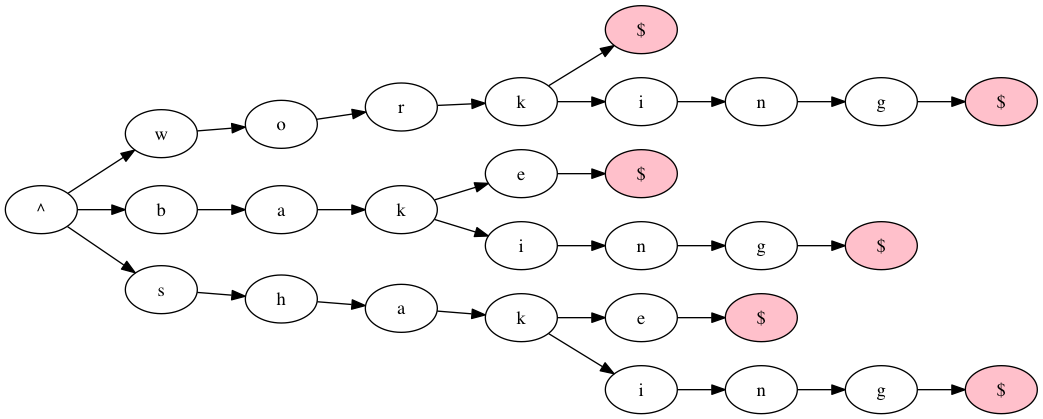
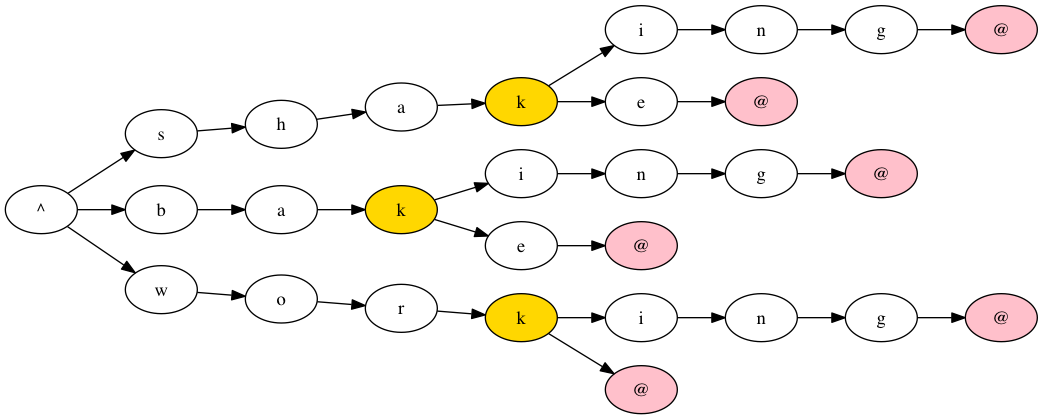
Separate graph and trie building, highlight split points in graphs

diff --git a/trie.py b/trie.py
@@ -8,24 +8,17 @@ class Node:
         self.descendants = {}  #Dictionary of descendants
         self.split_point = False
 
-    def __insert__(self, string, graph, terminal, last_key = str(), prev_branches = list()):
-        letter = string[0]
-        """-------------------- GRAPH BUILDING --------------------"""
-        """If not first letter or start symbol"""
-        if (last_key != ''):
-            """Add node, colour code s for emphasis"""
-            if (letter == terminal):
-                graph.add_node(last_key + letter, label = letter, style = 'filled', fillcolor = 'pink')
-            else:
-                graph.add_node(last_key + letter, label = letter)
-            """Add edge"""
-            graph.add_edge(last_key, last_key + letter)
-            last_key = last_key + letter
-        else:
-            """Add first node"""
-            graph.add_node(letter, label = letter)
-            last_key = letter
+    def __repr__(self):
+        """Outputs the branching factor and the dictionary of descendants
+        iteratively"""
+        string = str(self.branching_factor)
+        if (self.split_point):
+            string += "-SPLIT"
+        string += " " + str(self.descendants)
+        return string
 
+    def __insert__(self, string, prev_branches = list()):
+        letter = string[0]
         """-------------------- TRIE BUILDING --------------------"""
         """If the first letter isn't already an immediate descendant of the node
         then create a new node for that letter"""
@@ -41,7 +34,7 @@ class Node:
         """If there are remaining characters in the string"""
         if len(string[1:]) > 0:
             """Insert the remaining chunk of string below"""
-            self.descendants[letter].__insert__(string[1:], graph, terminal, last_key, [self.branching_factor] + prev_branches)
+            self.descendants[letter].__insert__(string[1:], [self.branching_factor] + prev_branches)
 
     def is_split_point(self, prev_branches):
         """Check to the left using list of previous preceeding factors"""
@@ -78,27 +71,41 @@ class Node:
         else:
             return False
 
-    def __repr__(self):
-        """Outputs the branching factor and the dictionary of descendants
-        iteratively"""
-        string = str(self.branching_factor)
-        if (self.split_point):
-            string += "-SPLIT"
-        string += " " + str(self.descendants)
-        return string
+    def build_graph(self, graph, terminal, last_key = str()):
+        if (self.label):
+            """If not first letter or start symbol"""
+            if (last_key != ''):
+                """Add node, colour code terminals for emphasis"""
+                if (self.label == terminal):
+                    graph.add_node(last_key + self.label, label = self.label, style = 'filled', fillcolor = 'pink')
+                elif (self.split_point):
+                    graph.add_node(last_key + self.label, label = self.label, style = 'filled', fillcolor = 'gold')
+                else:
+                    graph.add_node(last_key + self.label, label = self.label)
+                """Add edge"""
+                graph.add_edge(last_key, last_key + self.label)
+                last_key = last_key + self.label
+            else:
+                """Add first node"""
+                graph.add_node(self.label, label = self.label)
+                last_key = self.label
+
+        if (self.descendants):
+            for x in self.descendants:
+                self.descendants[x].build_graph(graph, terminal, last_key)
 
 class Trie:
     def __init__(self, start = str(), terminal = str()):
         self.root = Node()
-        self.graph = pgv.AGraph(directed=True)
         self.start = start
         self.terminal = terminal
+        self.graph = None
 
     def __repr__(self):
         return str(self.root)
 
     def insert(self, string):
-        self.root.__insert__(string, self.graph, self.terminal)
+        self.root.__insert__(string)
 
     def insert_word(self, word):
         self.insert(self.start + word + self.terminal)
@@ -131,7 +138,14 @@ class Trie:
     def contains_word(self, string):
         return self.contains(self.start + string + self.terminal)
 
+    def build_graph(self):
+        self.graph = pgv.AGraph(directed=True)
+        self.root.build_graph(self.graph, self.terminal)
+
     def draw_graph(self, png_name):
+        if not self.graph:
+            print('Building graph first...')
+            self.build_graph()
         print('Processing graph layout...')
         self.graph.layout('dot', args="-Grankdir=LR")
         print('Drawing graph...')
@@ -166,6 +180,10 @@ def insert_word(trie):
     trie.insert_word(word)
     print("Word '" + word + "' successfully inserted!")
 
+def build_graph(trie):
+    trie.build_graph()
+    print("Graph successfully built!")
+
 def export_graph(trie):
     png_out = raw_input('Enter desired name of png output: ')
     trie.draw_graph(png_out)
@@ -174,13 +192,14 @@ def export_graph(trie):
 print('Welcome! Create a trie from a txt file...\n')
 trie = create_trie()
 option = 0
-while (option != 7):
-    print('\n--- Menu ---\n1. Create new trie from txt file\n2. Print trie\n3. Insert a word\n4. Annotate a word\n5. Check if trie contains a word\n6. Export graph\n7. Exit\n')
+while (option != 8):
+    print('\n--- Menu ---\n1. Create new trie from txt file\n2. Print trie\n3. Insert a word\n4. Annotate a word\n5. Check if trie contains a word\n6. Build graph\n7. Export graph\n8. Exit\n')
     option = input('Enter option: ')
     if (option == 1): trie = create_trie()
     if (option == 2): print('\nTrie: ' + str(trie))
     if (option == 3): insert_word(trie)
     if (option == 4): annotate_word(trie)
     if (option == 5): contains_word(trie)
-    if (option == 6): export_graph(trie)
-    if (option == 7): print('\nGoodbye')
+    if (option == 6): build_graph(trie)
+    if (option == 7): export_graph(trie)
+    if (option == 8): print('\nGoodbye')
